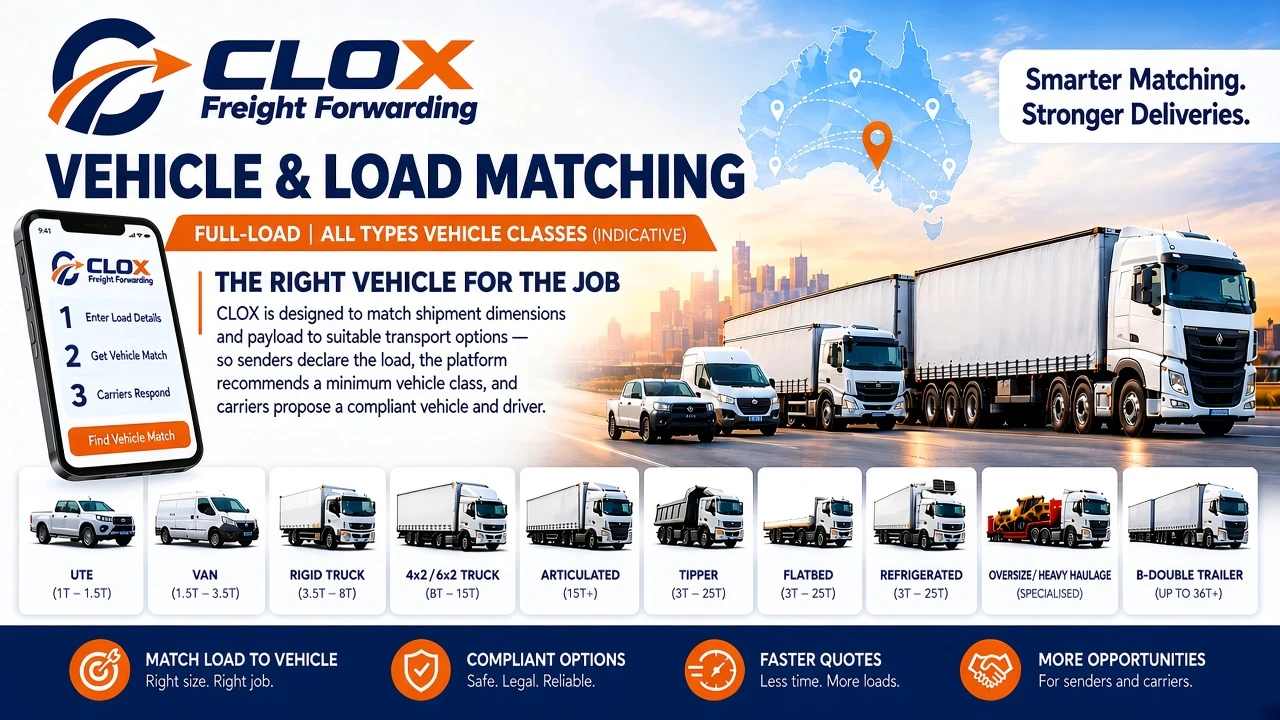
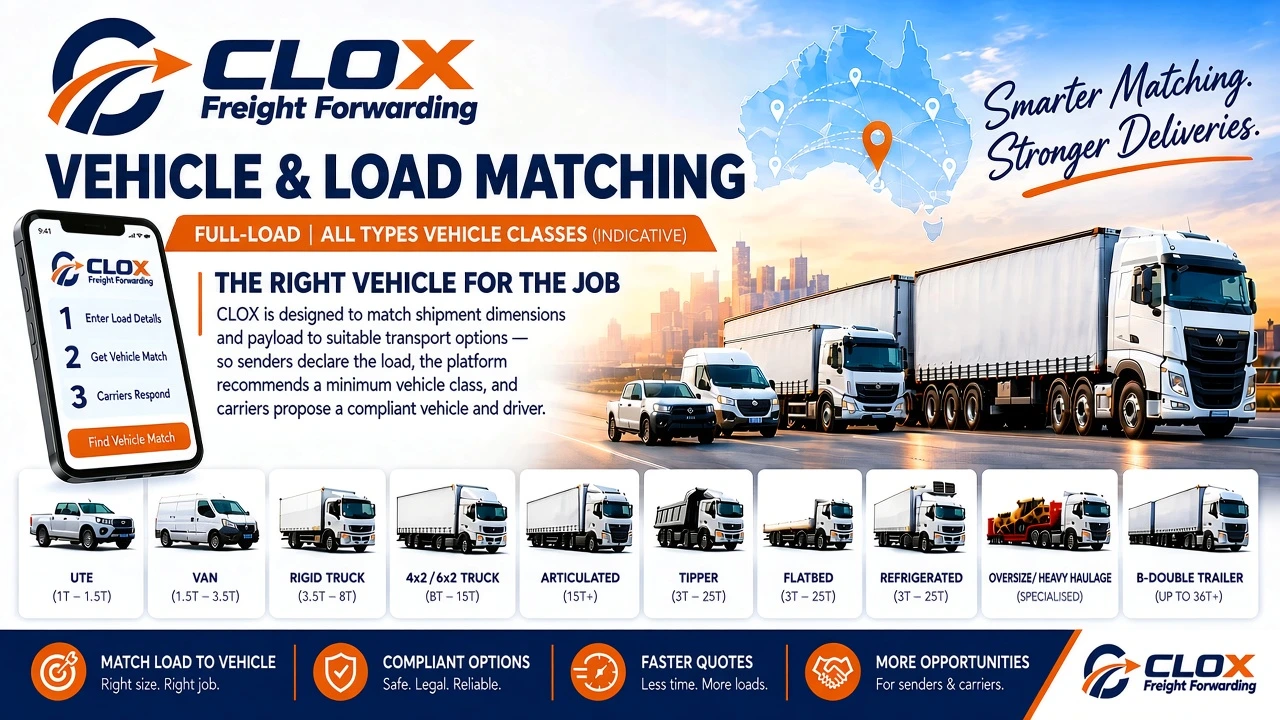
Enhance middleware and page redirection for improved user experience
- Updated middleware to use 308 Permanent Redirect for legacy Russian routes and locale-less canonical paths, preventing navigation loops.
- Changed redirection method in RootPage from `redirect` to `permanentRedirect` for better handling of default locale navigation.
- Updated vehicle load banner image to improve visual quality.

diff --git a/web/src/middleware.ts b/web/src/middleware.ts
@@ -36,23 +36,26 @@ export function middleware(request: NextRequest) {
     return NextResponse.next();
   }
 
-  // Legacy Russian routes → Hindi
+  // Legacy Russian routes → Hindi (308 so Back skips the intermediate URL)
   if (maybeLocale === 'ru') {
     const url = request.nextUrl.clone();
     const rest = segments.slice(1).join('/');
     url.pathname = rest ? `/hi/${rest}` : '/hi';
-    return NextResponse.redirect(url);
+    return NextResponse.redirect(url, 308);
   }
 
+  // Locale-less canonical paths (/privacy, /terms, …) → /{locale}/…
+  // 308 Permanent Redirect: browsers skip the bare path when going Back,
+  // avoiding the /privacy ↔ /en/privacy loop from temporary (307) redirects.
   if (LEGACY_PATHS.has(pathname) || pathname === '') {
     const url = request.nextUrl.clone();
     url.pathname = pathname === '/' ? `/${defaultLocale}` : `/${defaultLocale}${pathname}`;
-    return NextResponse.redirect(url);
+    return NextResponse.redirect(url, 308);
   }
 
   const url = request.nextUrl.clone();
   url.pathname = `/${defaultLocale}`;
-  return NextResponse.redirect(url);
+  return NextResponse.redirect(url, 307);
 }
 
 export const config = {

diff --git a/web/src/app/page.tsx b/web/src/app/page.tsx
@@ -1,6 +1,6 @@
-import { redirect } from 'next/navigation';
+import { permanentRedirect } from 'next/navigation';
 import { defaultLocale } from '@/locales';
 
 export default function RootPage() {
-  redirect(`/${defaultLocale}`);
+  permanentRedirect(`/${defaultLocale}`);
 }
